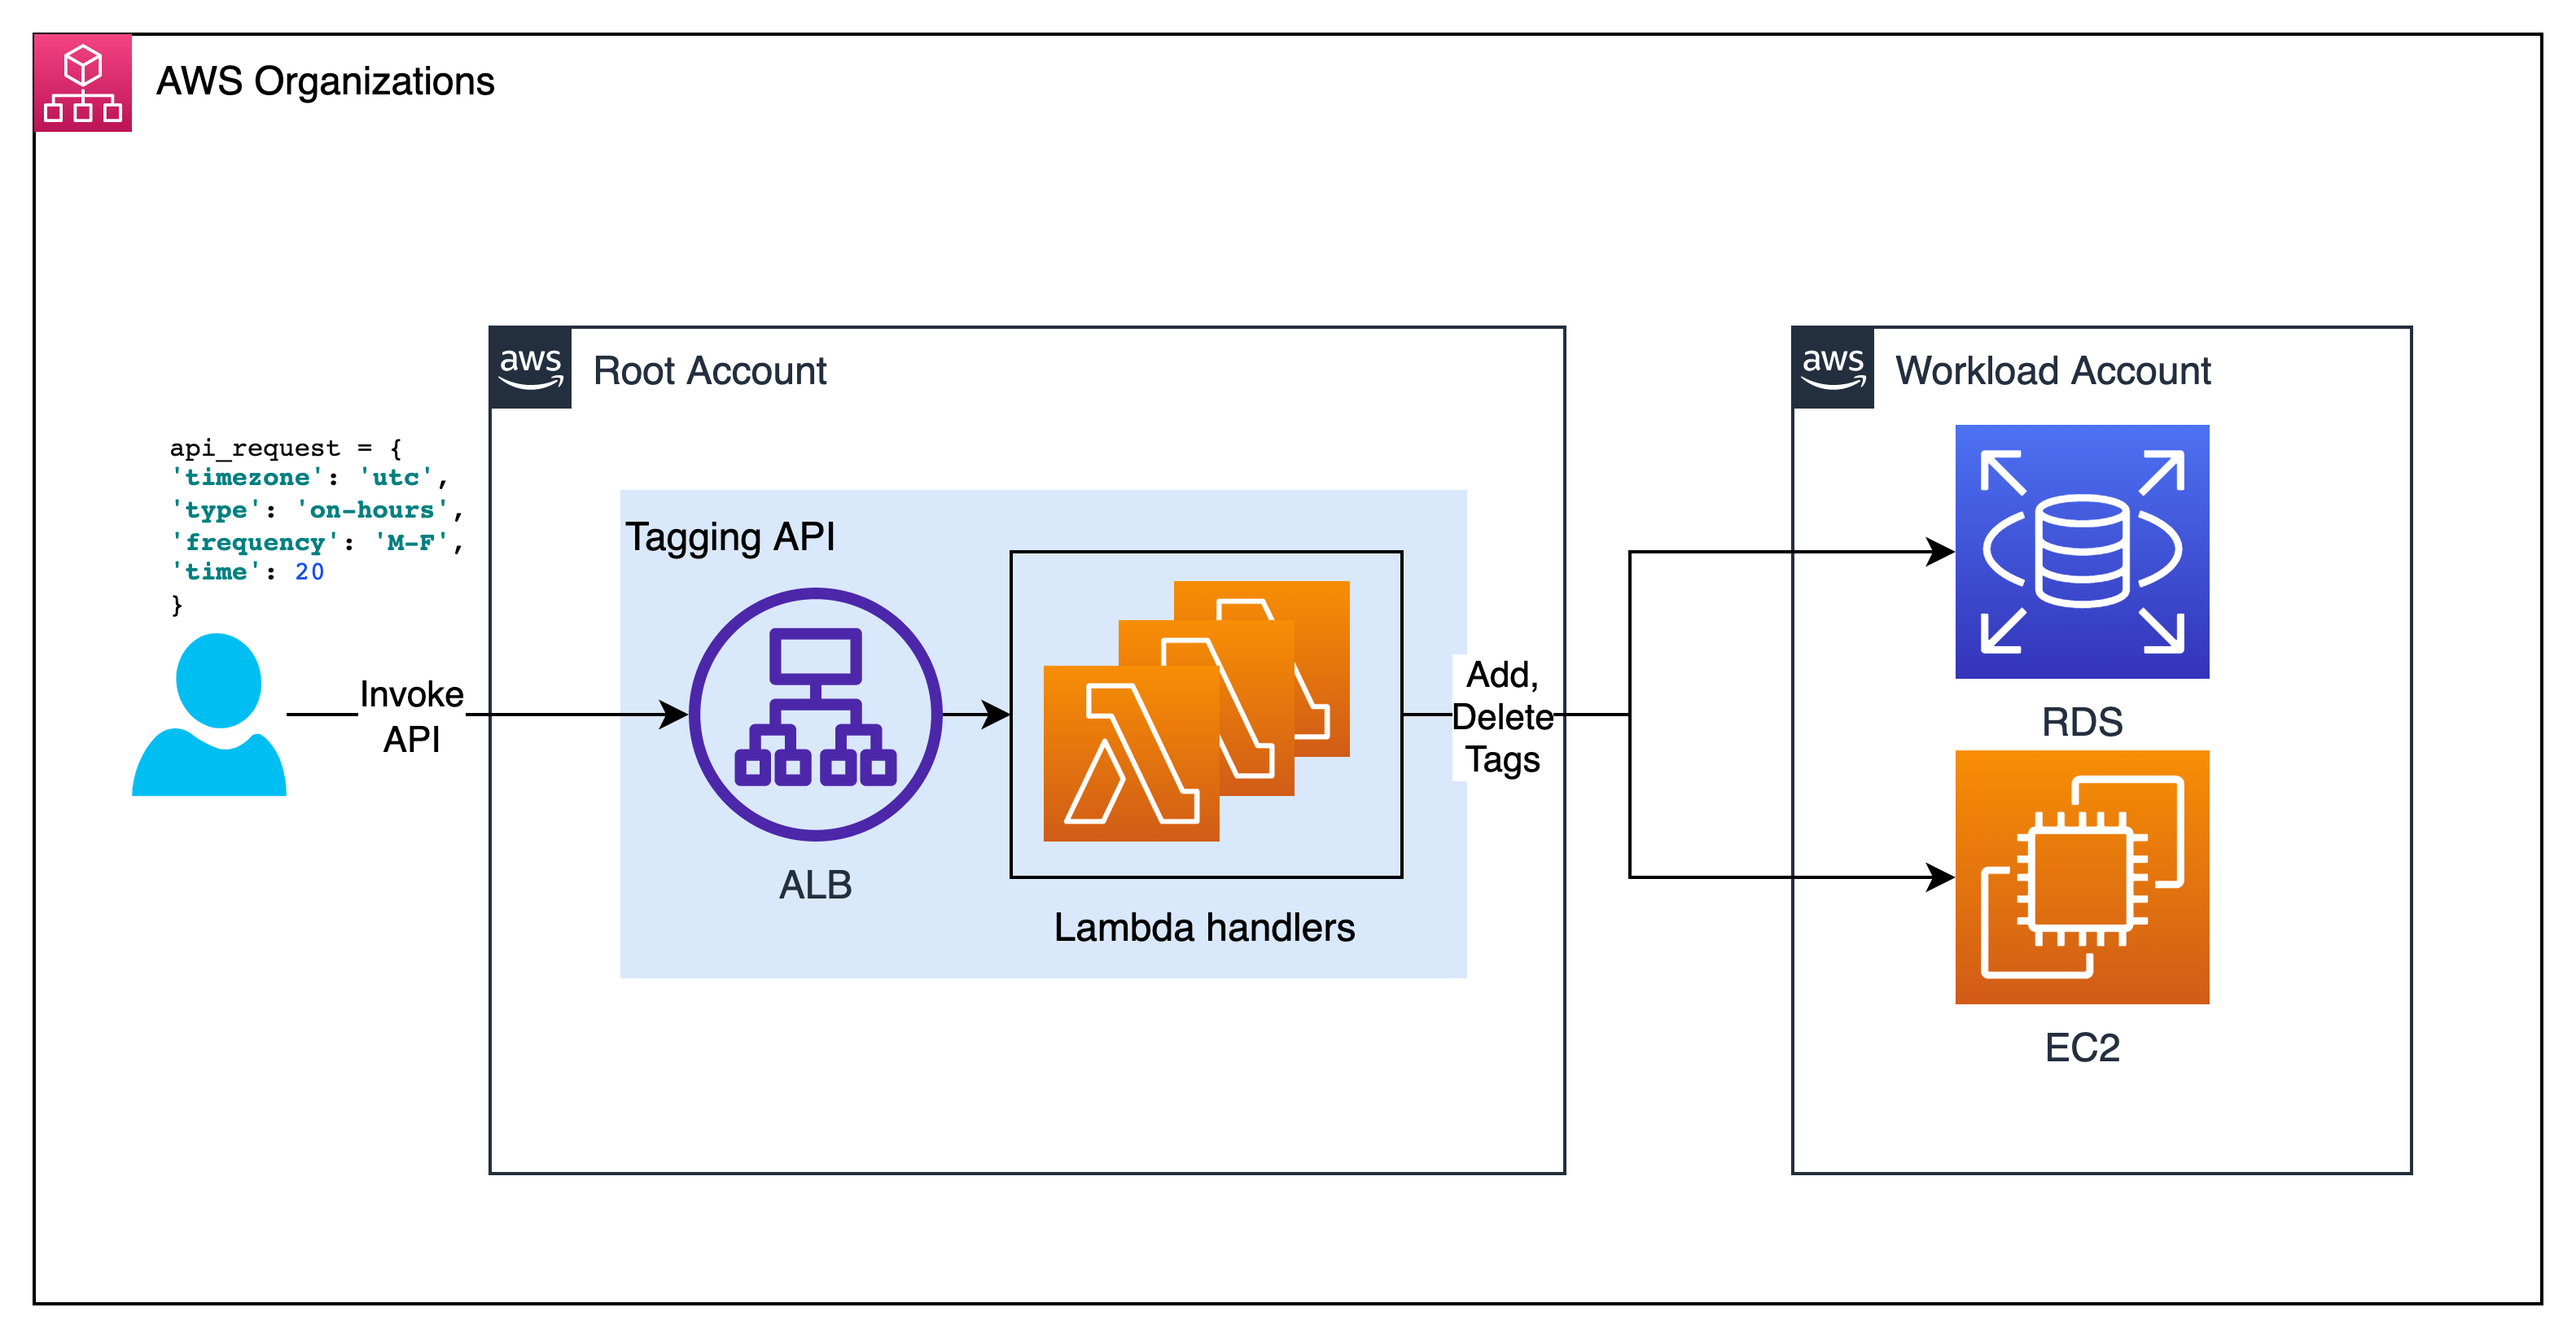
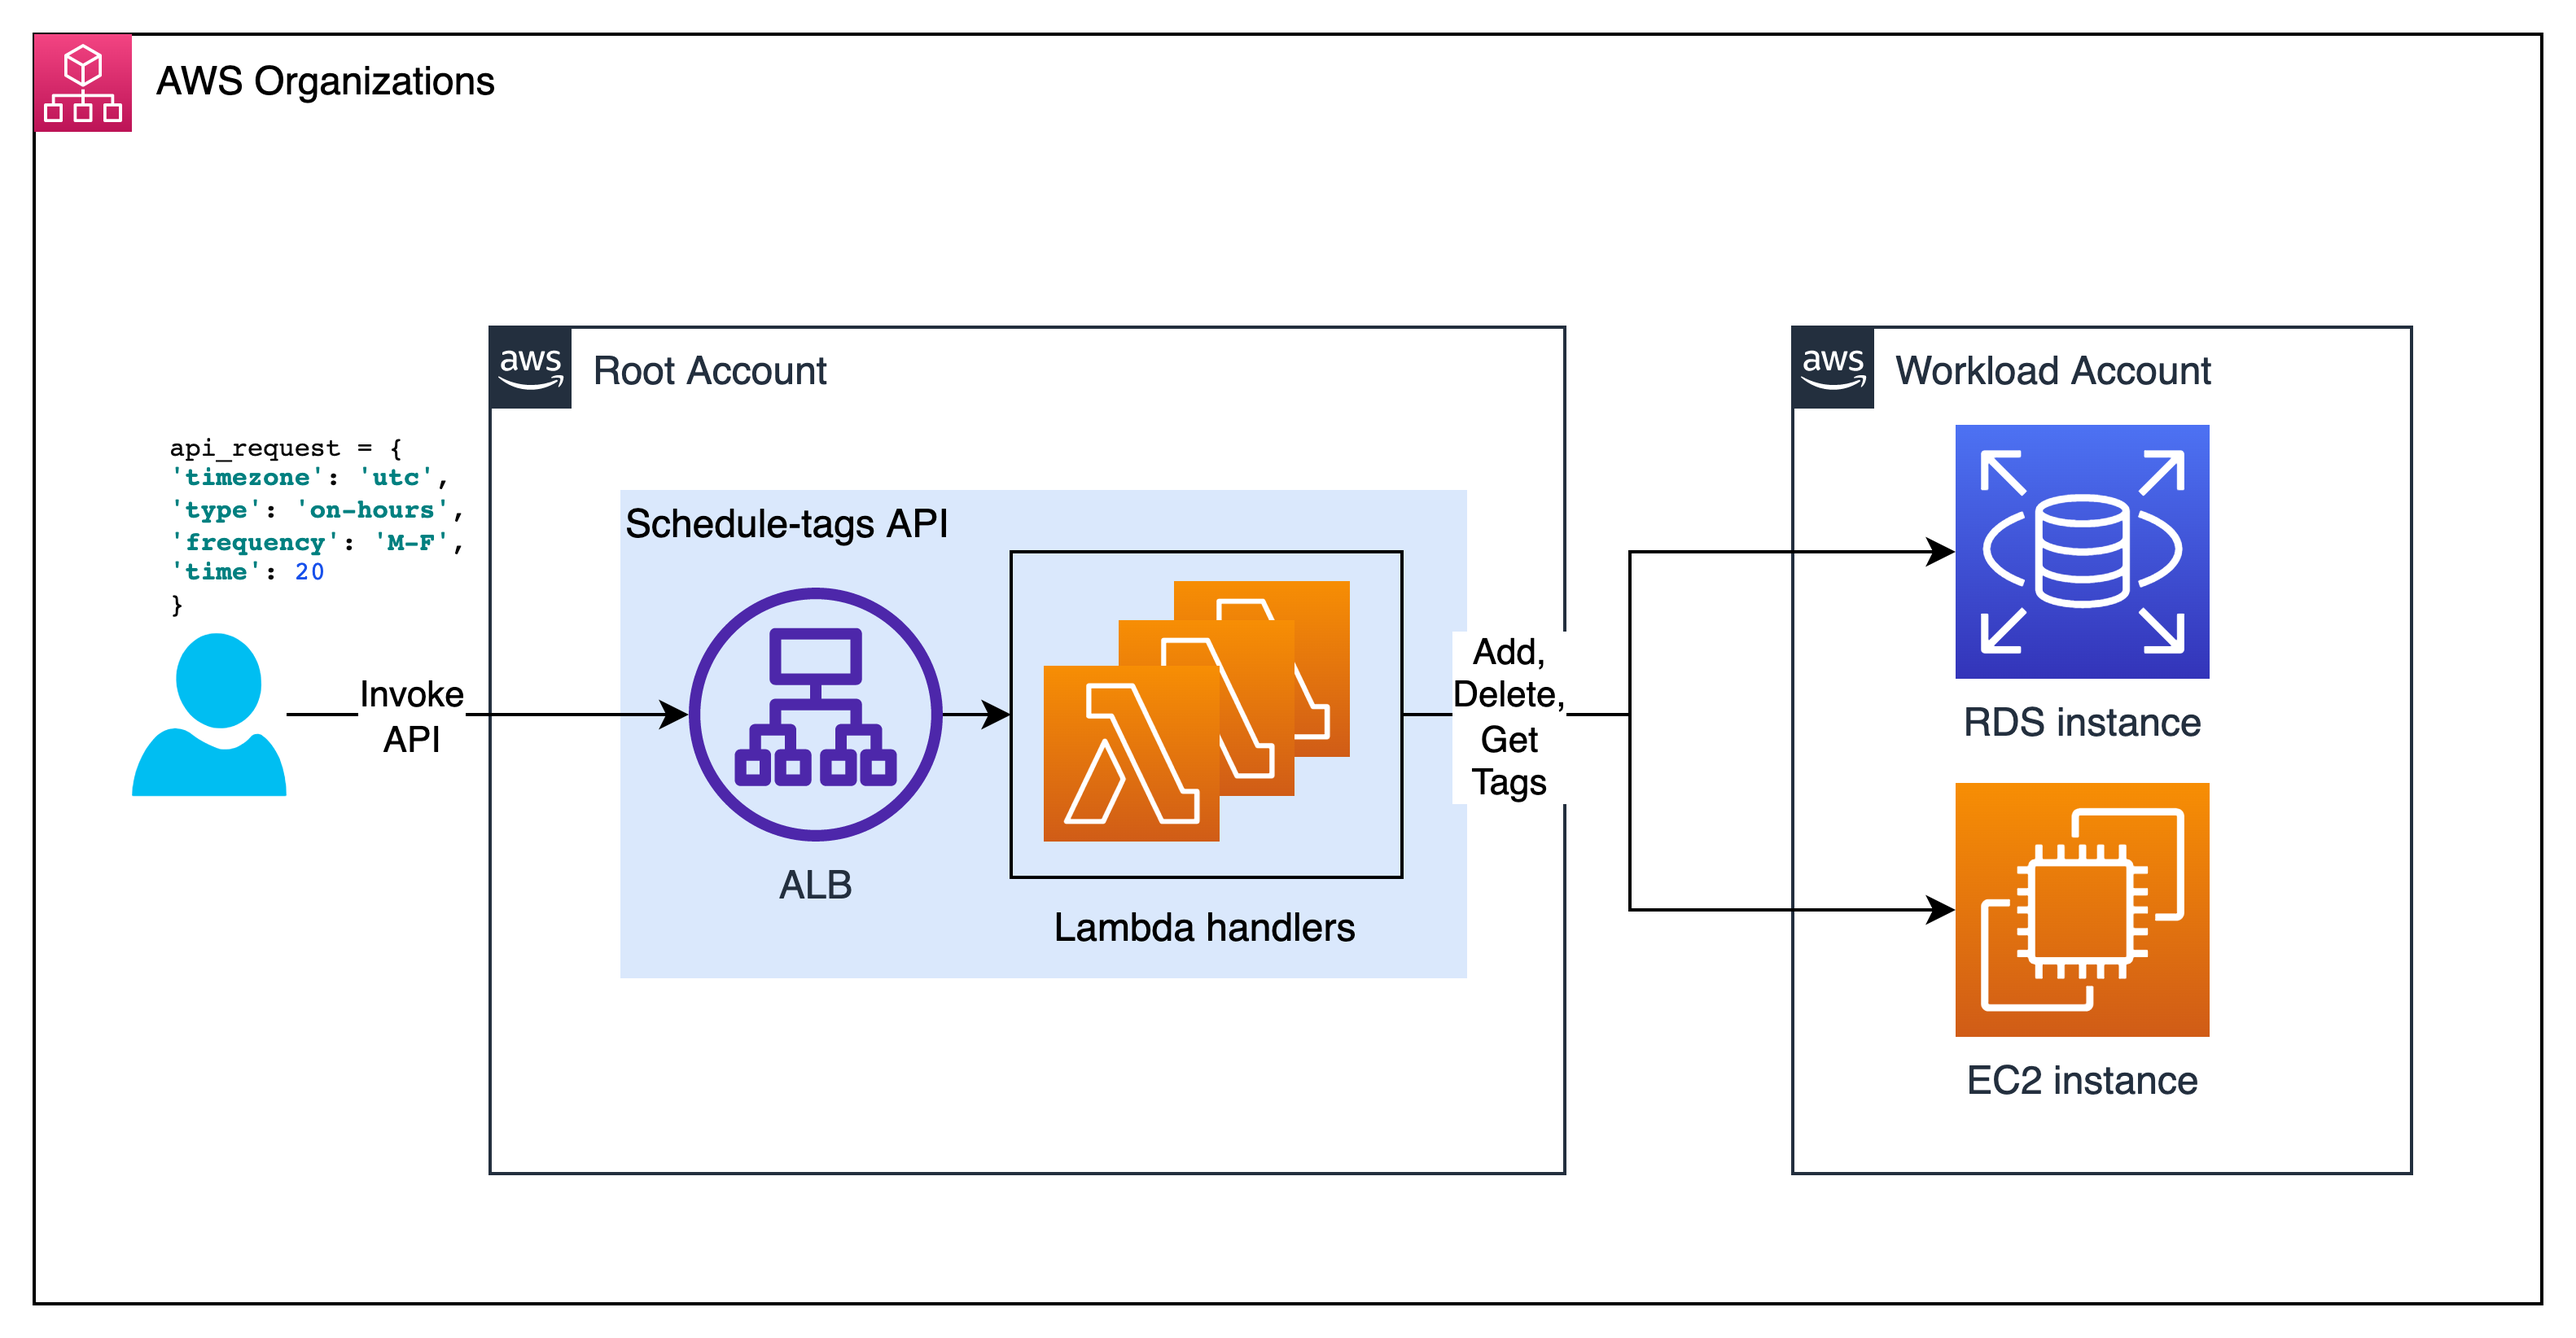
update

Changed region(s): [[0.6195, 0.5274, 0.8673, 0.8376], [0.5575, 0.4653, 0.6195, 0.6204], [0.2478, 0.3723, 0.3717, 0.4343]]

diff --git a/README.md b/README.md
@@ -1,29 +1,31 @@
 # EC2/RDS Instance Schedule Tags API
 
-    This project contains a centralized API to add/delete/get the schedule tags for RDS and EC2 instances in a multi-account AWS Organizations implementation.
-    The scheduling tags(on-hours, off-hours) can be used by AWS Config policies or Cloud Custodian policies to automate starting and stopping RDS/EC2 instances for cost saving measures.
-    
-    API features: 
-    * API adds, deletes, and gets the 'on-hours' and 'off-hours' tags on a particular RDS/EC2 instance
-    * Create schedule tag request when tag exists will have tag updated if there are changes
-    * Delete schedule tag request on instance without tag will return 200 OK
-    * Date/Time will be stored in UTC format
-        Incoming request payload will have the local time zone (tz database name) of the request. The API translates the time zone to the UTC time.
-    * Invoke POST call and verify the schedule tag gets added
-        Tag will be Key-Value Pair with Key=on-hours or off-hours and Value indicating Days (M-F) and Time in 24h format
-        Example on-hours tag is as follows 
-            For RDS, "Key": "on-hours", "Value": "M-F/5:tz=utc:"
-            For EC2, "Key": "on-hours", "Value": "(M-F,5);tz=utc;"
-        Example off-hours tag is as follows 
-            For RDS, "Key": "off-hours", "Value": "M-F/20:tz=utc:"
-            For EC2, "Key": "off-hours", "Value": "(M-F,20);tz=utc;"
-    * Invoke DELETE call and verify the schedule tag gets removed
-    * Invoke GET call and verify the schedule tag is retrieved
+This project contains a centralized API to add/delete/get the schedule tags for RDS and EC2 instances in a multi-account AWS Organizations implementation.
+The scheduling tags(on-hours, off-hours) will be used by compliance rules deployed from [AWS Config](https://aws.amazon.com/config/) or [Cloud Custodian](https://cloudcustodian.io/) to automate starting and stopping RDS/EC2 instances for cost saving measures.
+
+API features: 
+* API adds, deletes, and gets the 'on-hours' and 'off-hours' tags on a particular RDS/EC2 instance
+* Create schedule tag request when tag exists will have tag updated if there are changes
+* Delete schedule tag request on instance without tag will return 200 OK
+* Date/Time will be stored in UTC format
+    Incoming request payload will have the local time zone (tz database name) of the request. The API translates the time zone to the UTC time.
+* POST call adds the schedule tag.
+    Tag will be Key-Value Pair with Key=on-hours or off-hours and Value indicating Days (M-F) and Time in 24h format
+    Example on-hours tag is as follows 
+        For RDS, "Key": "on-hours", "Value": "M-F/5:tz=utc:"
+        For EC2, "Key": "on-hours", "Value": "(M-F,5);tz=utc;"
+    Example off-hours tag is as follows 
+        For RDS, "Key": "off-hours", "Value": "M-F/20:tz=utc:"
+        For EC2, "Key": "off-hours", "Value": "(M-F,20);tz=utc;"
+* DELETE call removes the schedule tag.
+* GET call retrieves the schedule tag.
     
 
 ## Architecture
 ![Architecture2](docs/arch.png)
 
+
+## Directory Structure
 ```
 .
 ├── README.md                     <-- This documentation file
@@ -33,33 +35,47 @@
 ├── schedule-tags-api.yaml        <-- Swagger doc 
 └── serverless.yml                <-- Serverless application definition file
 ```
-## Pre-requisites
-```shell script
-Install NodeJS
-Install Serverless framework
-Install Python 3.6, Pip3
-```
 
+---
+## Local env setup and configuration
 
-## Test
 ```shell script
-#Install Python requirements
+# Install Python3.6, Pip3, Nodejs >= v14
+
+# Install python dependencies
 pip3 install -r requirements.txt
 
+# Install Serverless framework
+npm i -g serverless
+
+# Install Serverless dependencies
+cd aws-firewall-manager-sg-sls
+npm i
+
+# Install serverless plugins; python 3.6 should already be installed
+serverless plugin install -n serverless-python-requirements
+serverless plugin install -n serverless-deployment-bucket
+
+# Configure AWS named profile
+aws configure --profile default 
+
+```
+
+## Unit Test
+```shell script
+# Run unit tests
 pytest ./
 ```
 
 ## Deployment
 ```shell script
-# Install serverless framework dependencies from package.json
-npm i
-
-#Deploy API
+# Deploy API
 serverless deploy -s dev
 ```
 
 ## Integration Test
-```
+```shell script
+# Run integration tests
 behave sls/schedule_tags_api/get_schedule_tags/tests/bdd/
 behave sls/schedule_tags_api/delete_schedule_tags/tests/bdd/
 behave sls/schedule_tags_api/put_schedule_tags/tests/bdd/
@@ -70,7 +86,7 @@ The OpenAPI spec for the API is located at [docs/openapi.yml](docs/openapi.yml)
 
 ## Example Usage
 
-```bash
+```shell script
 # Get schedule tags from account-id=itx-000, in region=us-west-2 and for ec2 instance with id = i-instance-000
 
 curl -X GET 
@@ -96,4 +112,4 @@ curl -X PUT
 ```
 
 ## License
-This library is licensed under the MIT-0 License. See the LICENSE file.
+This library is licensed under the MIT-0 License. See the [LICENSE](LICENSE) file.
